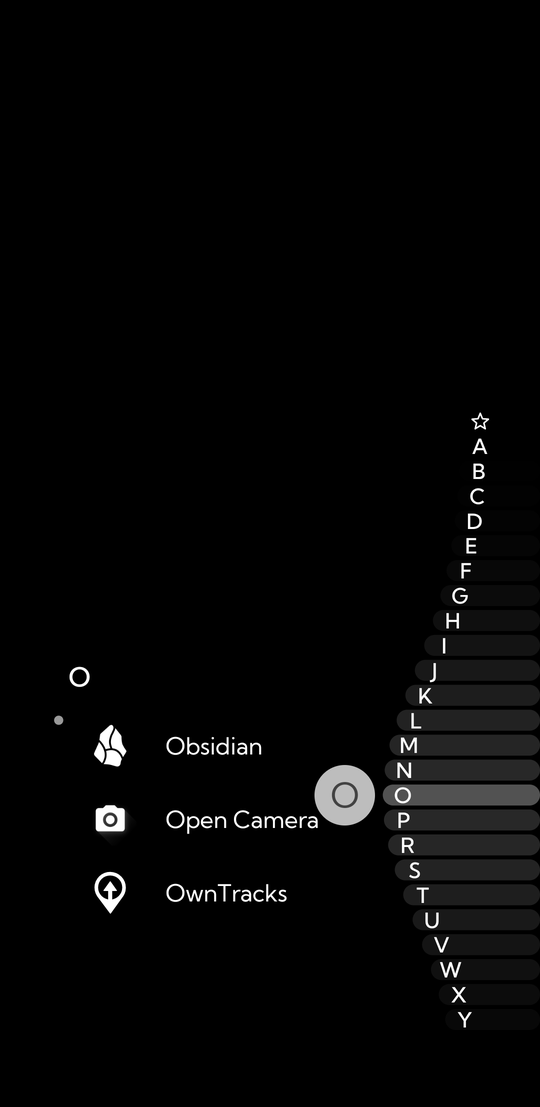
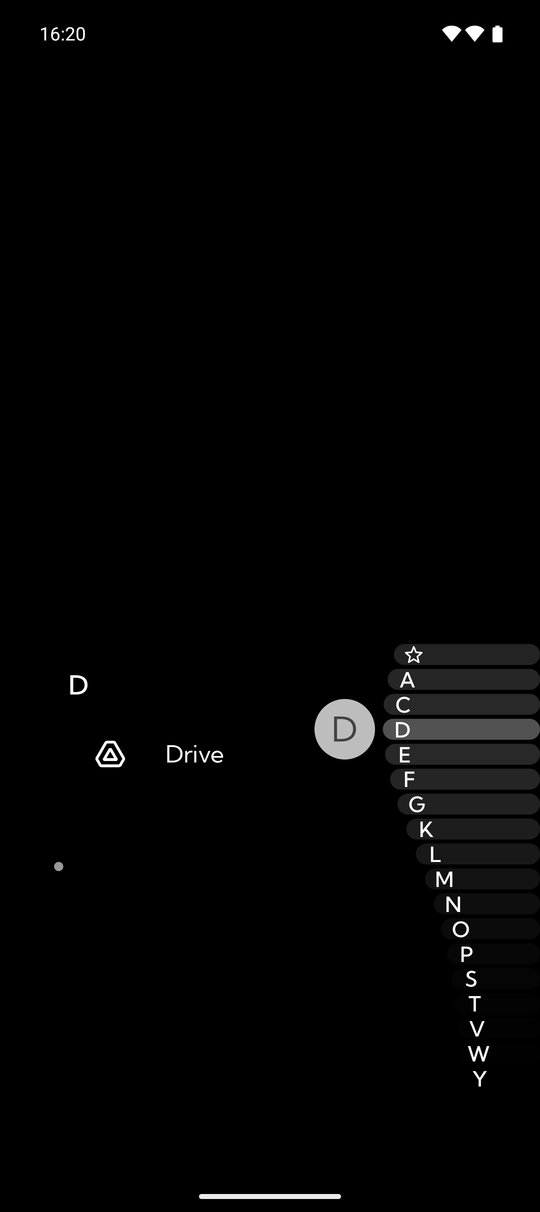
docs: new screenshots for 0.9
Home, letter strip, boxes, search over contacts and events, shortcuts, settings and a coloured look, all
taken on a demo phone with made-up contacts and events. The widget picker shot is gone.

diff --git a/README.md b/README.md
@@ -7,12 +7,14 @@ Free and open source, about 8,000 lines of Kotlin + Jetpack Compose with about 3
 but there are no promises on timing, and it is tested mainly on a Pixel, so expect rough edges elsewhere.*
 
 <p>
-  <img src="docs/home.png" width="180" alt="Home screen: the weekday above a band between two lines with the next alarm, weather, date and Bitcoin price, the music player, then the pinned apps">
-  <img src="docs/scrub.png" width="180" alt="Holding the letter strip: letters slide out on stripes around the finger and the apps under O are listed">
+  <img src="docs/home.png" width="180" alt="Home screen: the weekday above a band between two lines with the temperature, the date and the S&amp;P 500, the next event under it, then the pinned apps with their icons, flashlight and camera in the bottom corners">
+  <img src="docs/scrub.png" width="180" alt="Holding the letter strip: the letters slide out around the finger, a bubble shows D and the apps under D are listed">
+  <img src="docs/boxes.png" width="180" alt="The boxes layout: app icons in five named boxes (Talk, Day, Play, Go, Tools) that tile the space under the clock, with only the lines between them drawn">
+  <img src="docs/search.png" width="180" alt="Search for anna: a contacts section with three people and call buttons, an events section with three calendar events, and a +1 more row">
   <img src="docs/shortcuts.png" width="180" alt="Maps swiped right, showing its Home and Work shortcuts">
+  <img src="docs/settings.png" width="180" alt="The settings panel with the Apps section open: layout, home list, order, and switches for icons and notification dots">
+  <img src="docs/colours.png" width="180" alt="Cream ink over a Japanese woodblock print of Mount Fuji as the wallpaper, apps in five narrow boxes with Japanese labels">
   <img src="docs/widgets.png" width="180" alt="A widget page beside home: an analogue clock and a stopwatch side by side, At a Glance below">
-  <img src="docs/picker.png" width="180" alt="Laconic's widget picker: widgets grouped by app, each with a preview and its size">
-  <img src="docs/settings.png" width="180" alt="The settings panel half-way up the screen with the Apps section open — home list, order, and switches for icons and notification dots — the clock still visible above it">
 </p>
 
 ## Features
